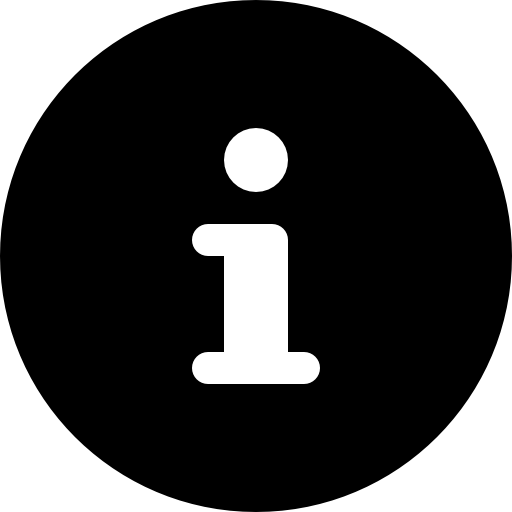
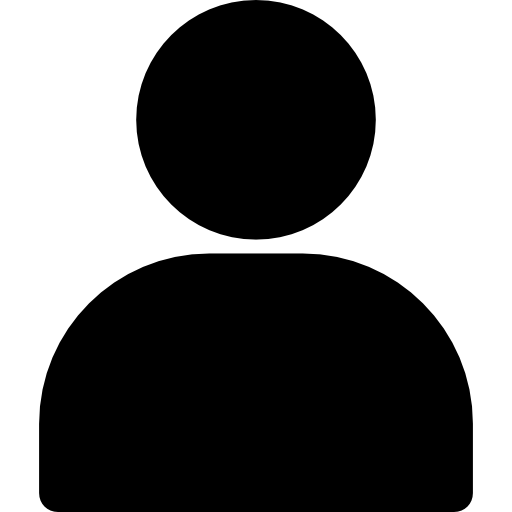
features: New themes

diff --git a/src/components/desktop/icons/IconFolderDesktop.tsx b/src/components/desktop/icons/IconFolderDesktop.tsx
@@ -1,0 +1,28 @@
+import { DESKTOP_ICON_YELLOW } from './IconFolder'
+
+const DESKTOP_ICON_BLACK = '#111111'
+const DESKTOP_ICON_WHITE = '#faf8f4'
+
+export function IconFolderDesktop() {
+  return (
+    <svg width={52} height={52} viewBox="0 0 52 52" aria-hidden="true">
+      <path
+        d="M6 14h16l4 6h20v26H6V14z"
+        fill={DESKTOP_ICON_YELLOW}
+        stroke={DESKTOP_ICON_BLACK}
+        strokeWidth="2"
+        strokeLinejoin="round"
+      />
+      <rect
+        x="18"
+        y="24"
+        width="18"
+        height="14"
+        rx="1"
+        fill={DESKTOP_ICON_WHITE}
+        stroke={DESKTOP_ICON_BLACK}
+        strokeWidth="2"
+      />
+    </svg>
+  )
+}

diff --git a/src/config/themes.ts b/src/config/themes.ts
@@ -1,4 +1,4 @@
-export type ThemeId = 'classic' | 'mac84' | 'teal' | 'bubblegum'
+export type ThemeId = 'classic' | 'mac84' | 'teal' | 'bubblegum' | 'galaxy'
 
 export interface RetroTheme {
   id: ThemeId
@@ -67,8 +67,8 @@ export const RETRO_THEMES: RetroTheme[] = [
     },
   },
   {
-    id: 'bubblegum',
-    name: 'Bubblegum',
+    id: 'galaxy',
+    name: 'Galaxy',
     description: 'Rose et lavande — pop art des années 90.',
     colors: {
       '--color-retro-bg': '#e8d4e0',
@@ -82,12 +82,28 @@ export const RETRO_THEMES: RetroTheme[] = [
       '--color-retro-project': '#9888e8',
     },
   },
+  {
+    id: 'bubblegum',
+    name: 'Bubblegum',
+    description: 'Violets cosmiques et nébuleuses — bureau spatial rétro.',
+    colors: {
+      '--color-retro-bg': '#dcd4f4',
+      '--color-retro-grid': '#b0a0d8',
+      '--color-retro-yellow': '#9078e8',
+      '--color-retro-black': '#140828',
+      '--color-retro-white': '#f4f0ff',
+      '--color-retro-grey': '#c4b4e8',
+      '--color-retro-blue': '#6888f8',
+      '--color-retro-mint': '#78d8f8',
+      '--color-retro-project': '#f060c8',
+    },
+  },
 ]
 
 export const DEFAULT_THEME_ID: ThemeId = 'classic'
 
 export function getAlternativeThemes(currentId: ThemeId): RetroTheme[] {
-  return RETRO_THEMES.filter((theme) => theme.id !== currentId).slice(0, 3)
+  return RETRO_THEMES.filter((theme) => theme.id !== currentId)
 }
 
 export function getThemeById(id: ThemeId): RetroTheme {

diff --git a/src/components/desktop/icons/IconAbout.tsx b/src/components/desktop/icons/IconAbout.tsx
@@ -2,14 +2,16 @@ import aboutIcon from '@images/about.png'
 
 export function IconAbout() {
   return (
-    <img
-      src={aboutIcon}
-      alt=""
-      width={52}
-      height={52}
-      className="h-[52px] w-[52px] object-contain"
-      draggable={false}
+    <div
+      className="retro-border flex h-[52px] w-[52px] items-center justify-center bg-[#f7d046]"
       aria-hidden="true"
-    />
+    >
+      <img
+        src={aboutIcon}
+        alt=""
+        className="h-9 w-9 object-contain"
+        draggable={false}
+      />
+    </div>
   )
 }

diff --git a/src/components/desktop/icons/iconMap.tsx b/src/components/desktop/icons/iconMap.tsx
@@ -1,17 +1,16 @@
 import type { ComponentType } from 'react'
 import { IconAbout } from './IconAbout'
-import { IconFolder } from './IconFolder'
+import { IconFolderDesktop } from './IconFolderDesktop'
 import { IconLinkedIn } from './IconLinkedIn'
 import { IconMail } from './IconMail'
-import { IconProject } from './IconProject'
 
 const ICON_MAP: Record<string, ComponentType> = {
   about: IconAbout,
   contact: IconMail,
   linkedin: IconLinkedIn,
-  'project-default': IconProject,
+  'project-default': IconFolderDesktop,
 }
 
 export function getIconComponent(iconKey: string): ComponentType {
-  return ICON_MAP[iconKey] ?? IconFolder
+  return ICON_MAP[iconKey] ?? IconFolderDesktop
 }

diff --git a/src/components/desktop/icons/IconFolder.tsx b/src/components/desktop/icons/IconFolder.tsx
@@ -3,9 +3,10 @@ interface IconFolderProps {
   size?: number
 }
 
+export const DESKTOP_ICON_YELLOW = '#f7d046'
 export const PROJECT_FOLDER_FILL = 'var(--color-retro-project)'
 
-export function IconFolder({ fill = '#f7d046', size = 52 }: IconFolderProps) {
+export function IconFolder({ fill = DESKTOP_ICON_YELLOW, size = 52 }: IconFolderProps) {
   return (
     <svg width={size} height={size} viewBox="0 0 52 52" aria-hidden="true">
       <path